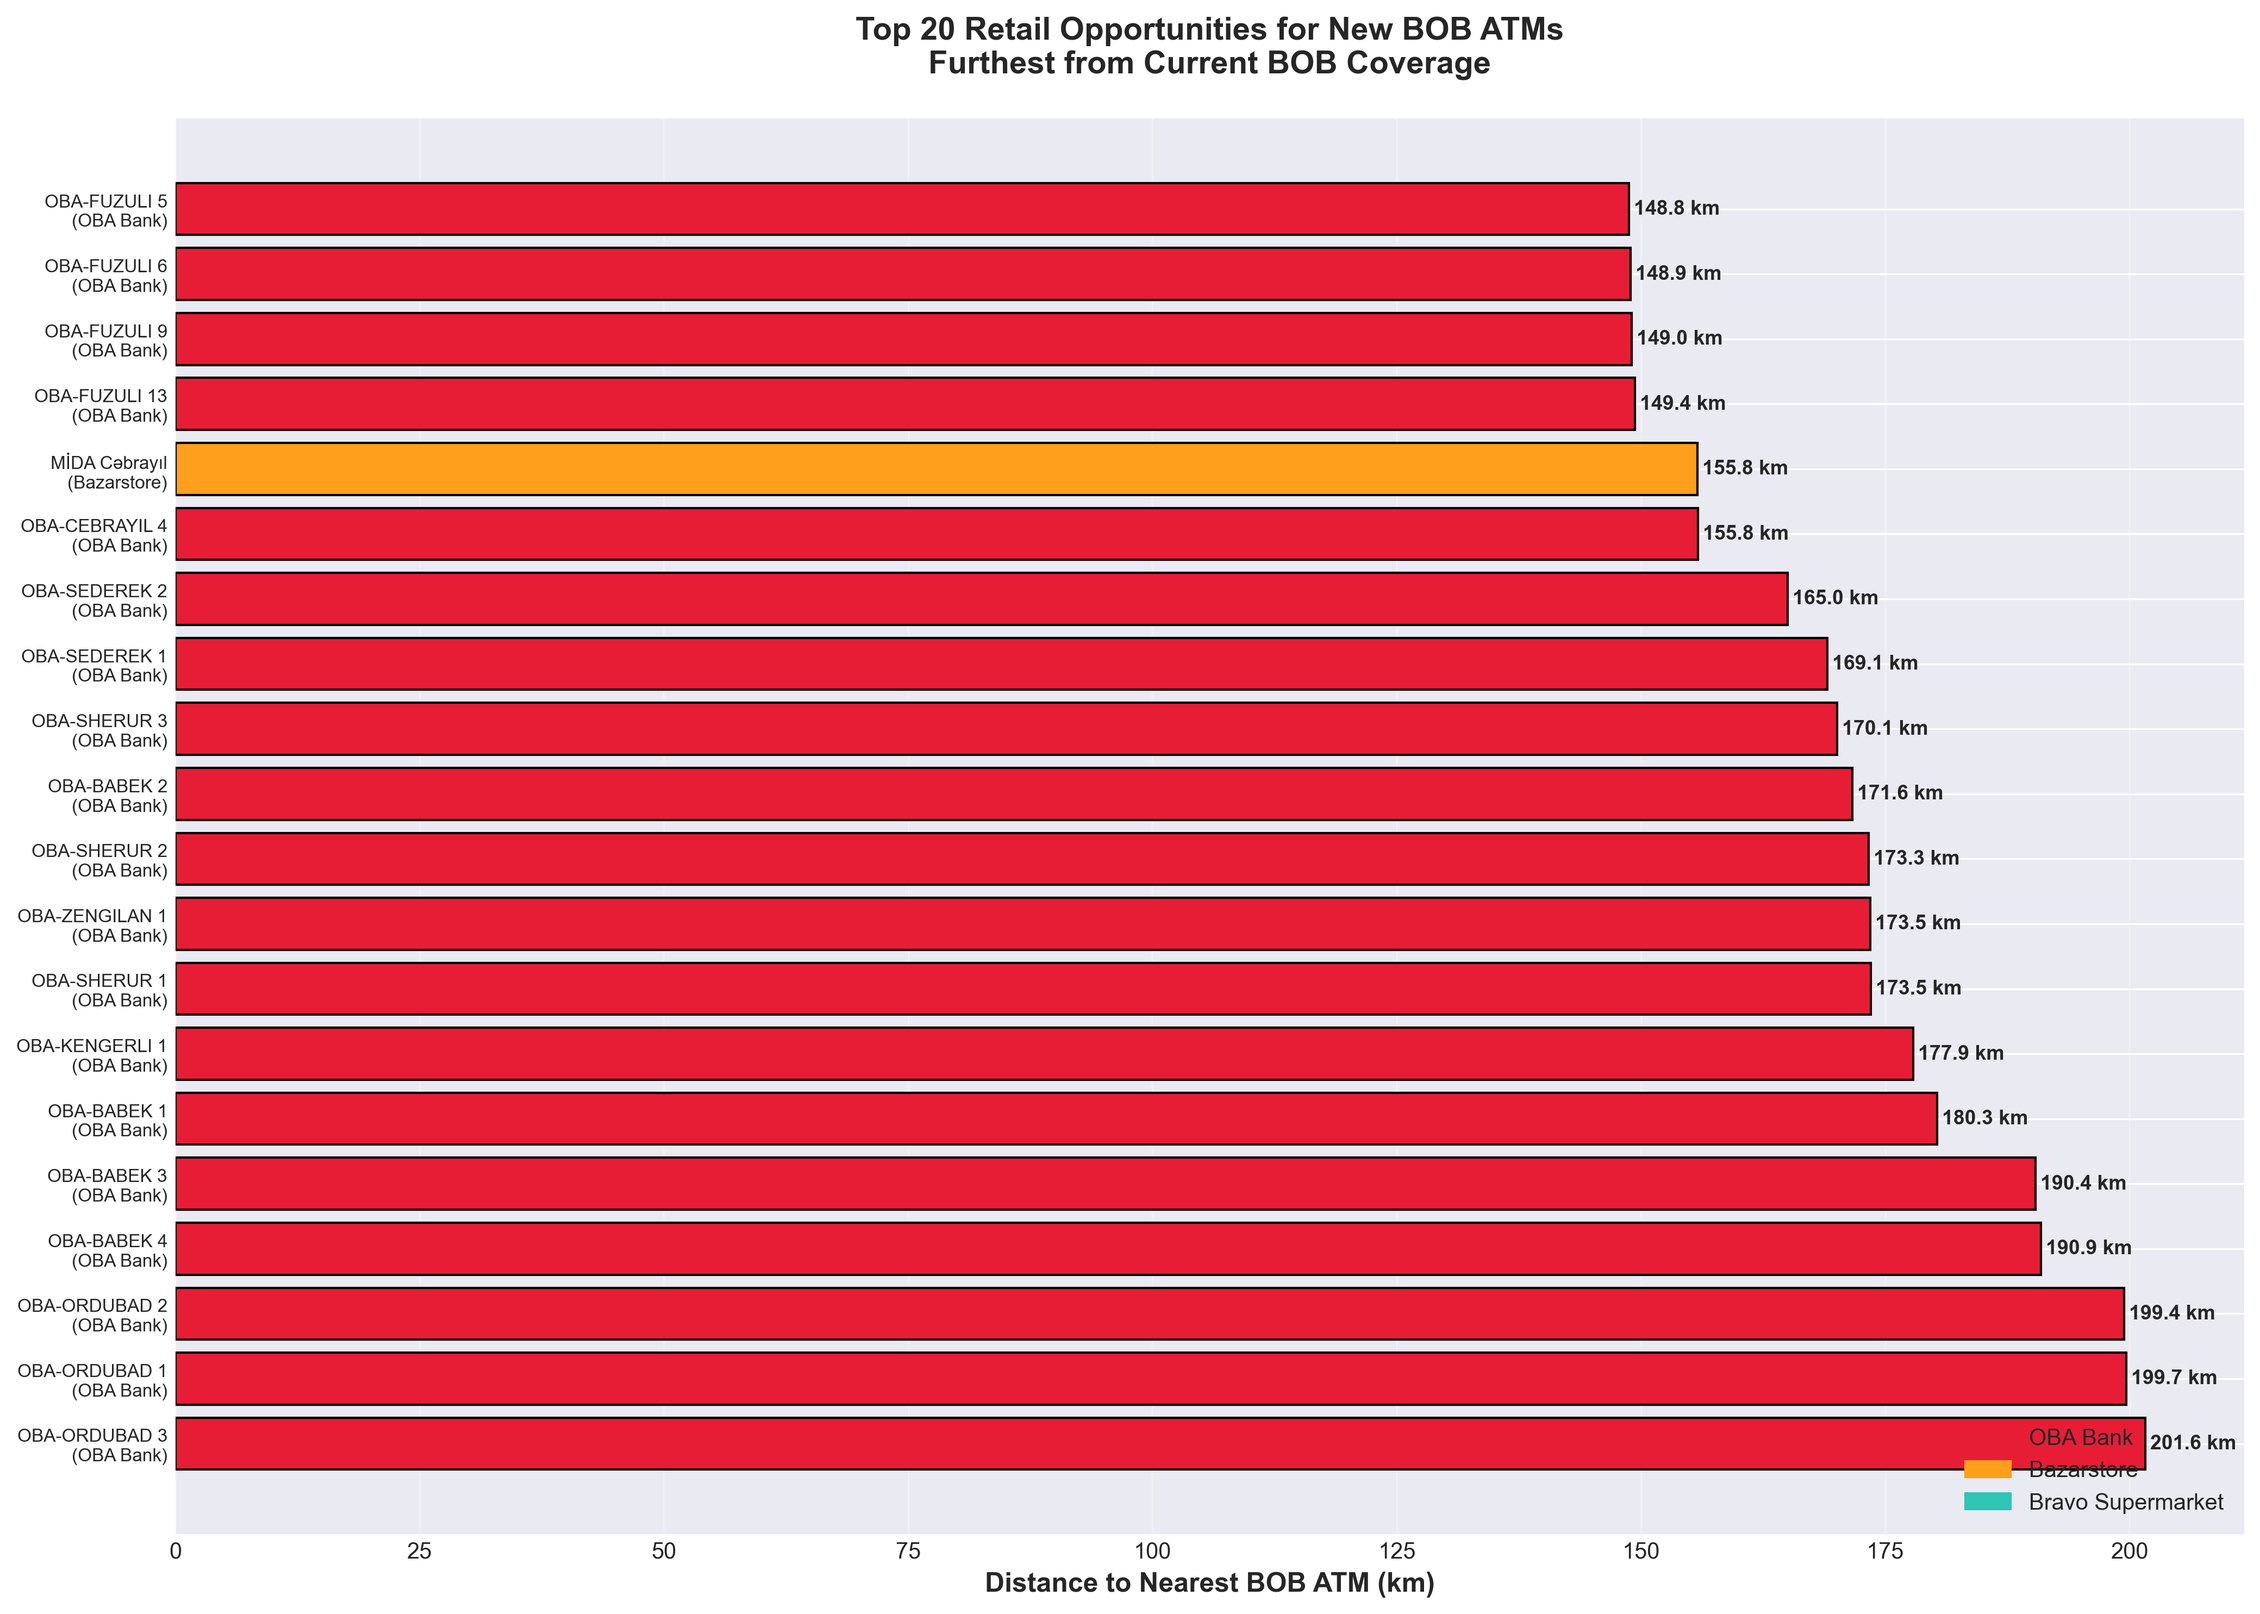
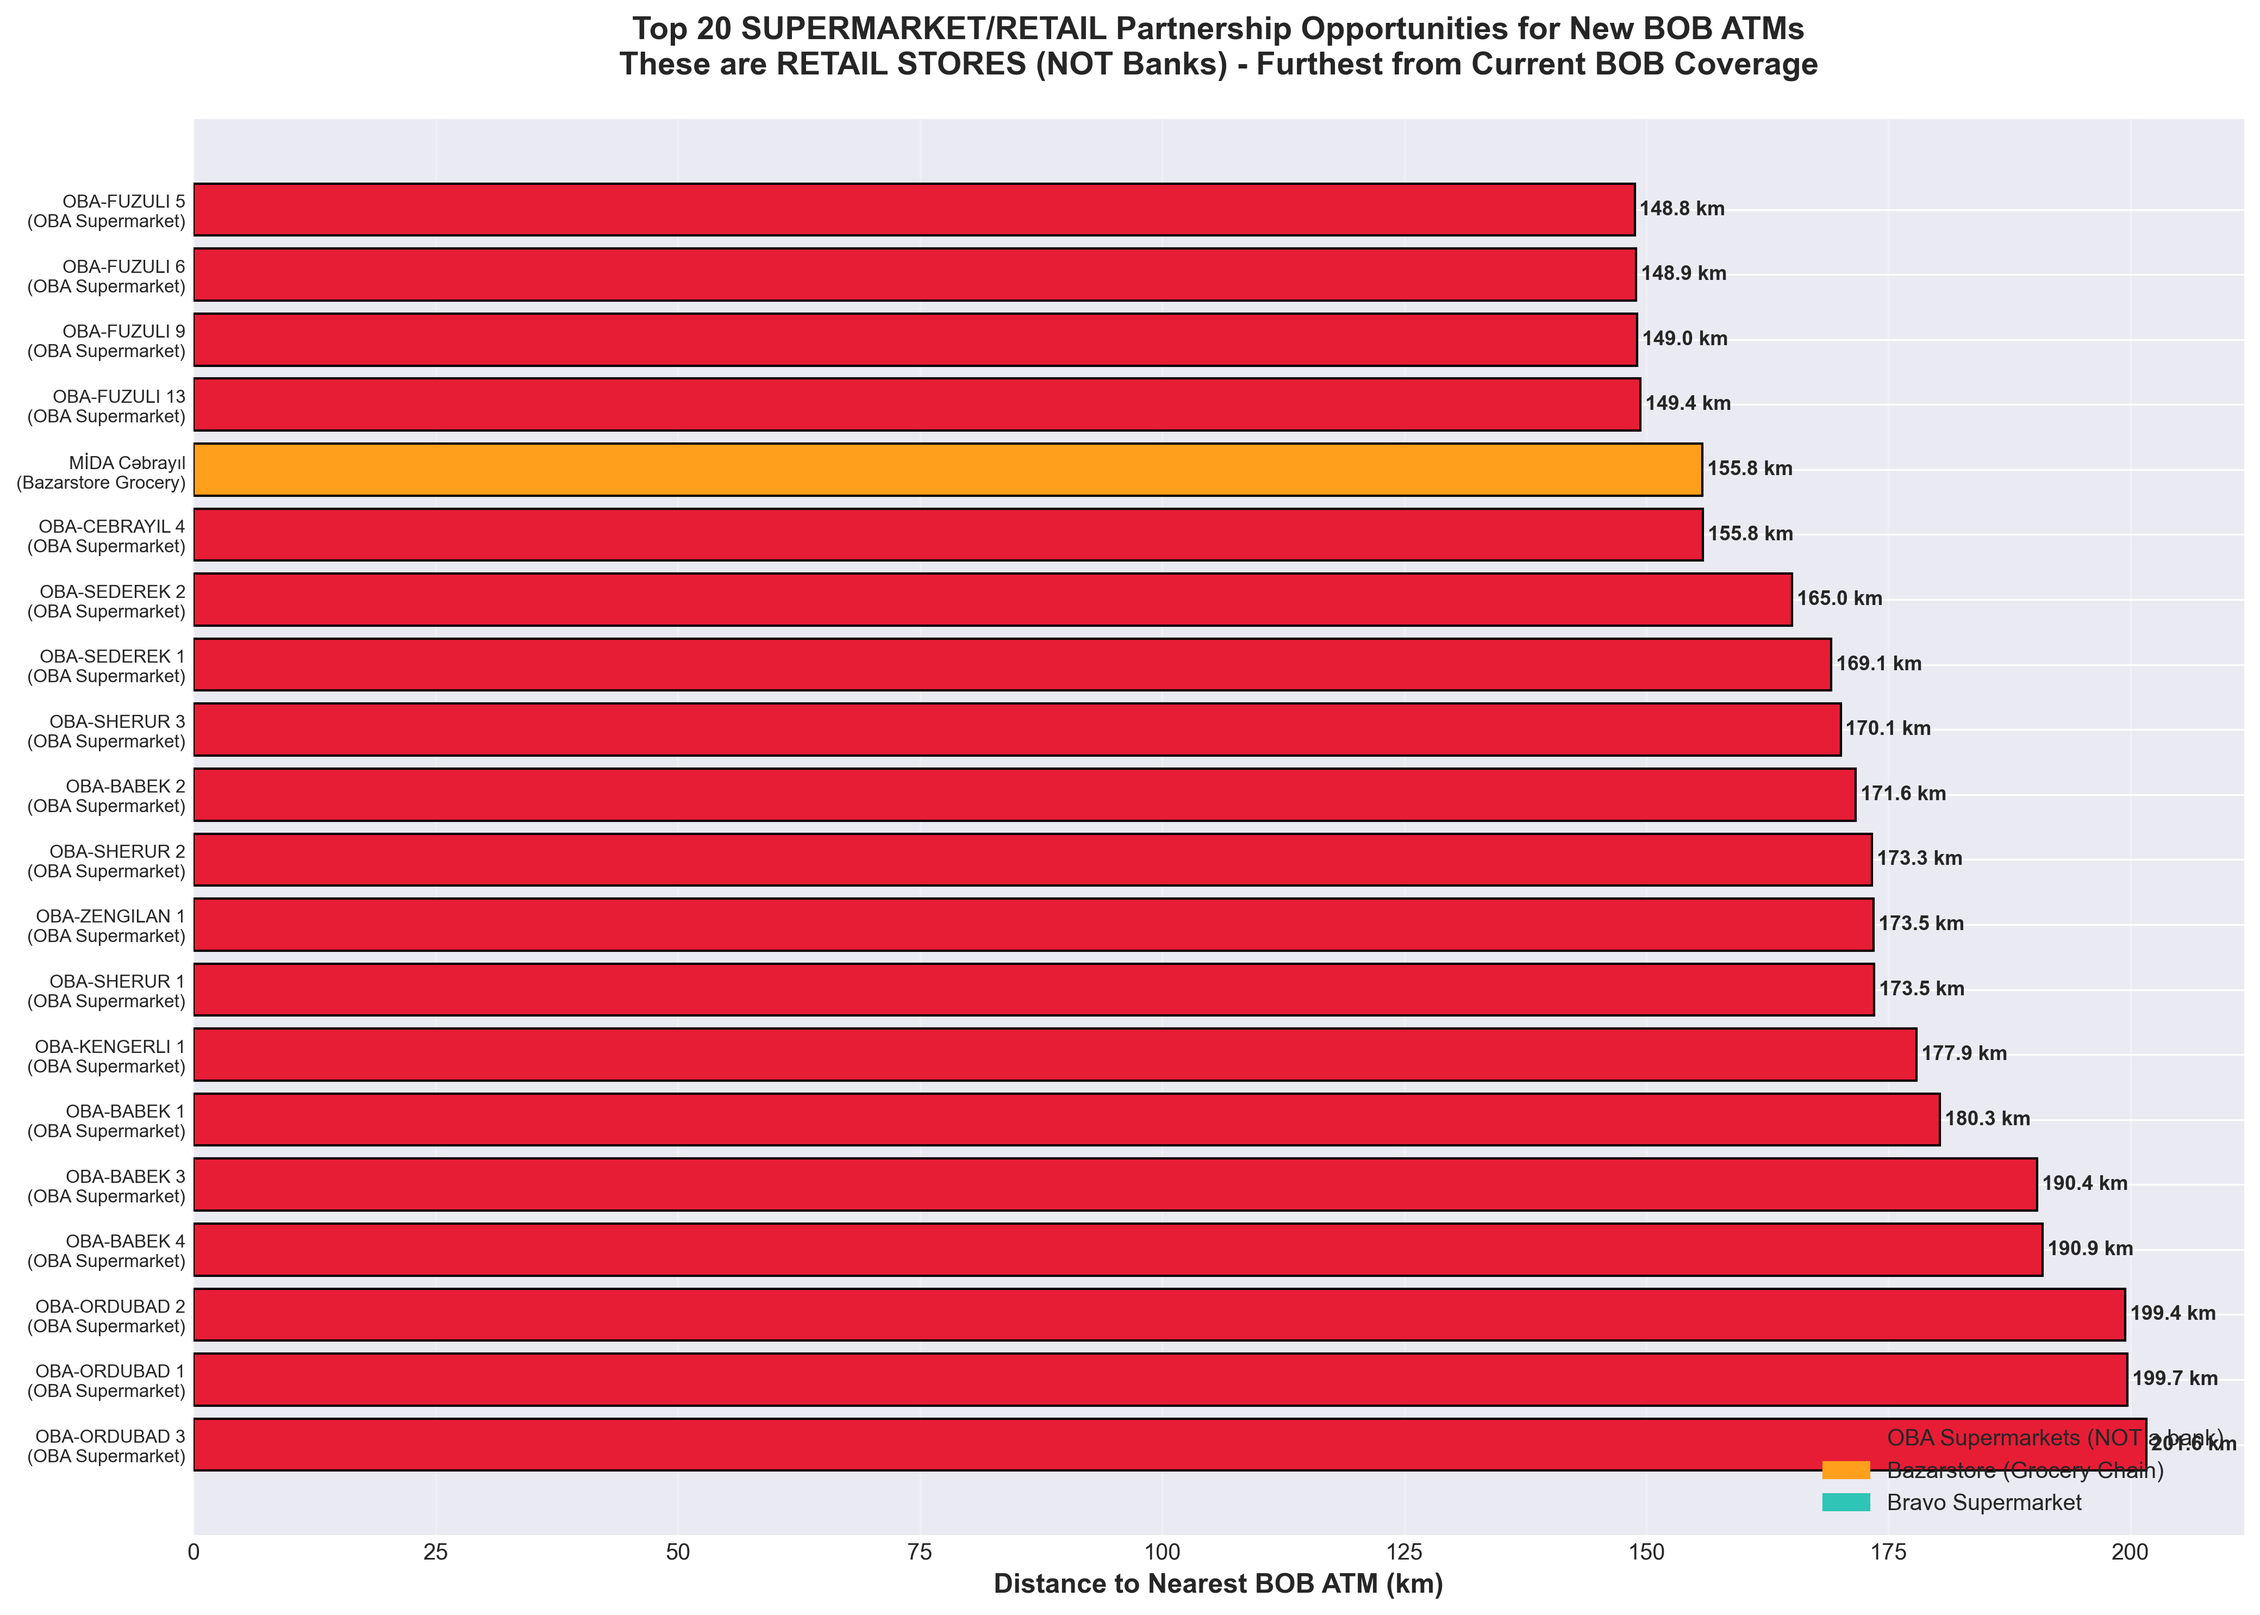
init
Source: https://github.com/GameHelix/space_invaders/commit/ad805e539ee829e90a004b172752f65668c456d6

diff --git a/earlier/GameHelix/space_invaders/scripts/analyze_for_bob.py b/earlier/GameHelix/space_invaders/scripts/analyze_for_bob.py
@@ -231,13 +231,20 @@ def chart4_retail_opportunity_map(data: List[Dict]) -> None:
         'OBA Bank': '#E71D36'
     }
 
+    # Label mapping to clarify these are SUPERMARKETS, not banks
+    label_map = {
+        'Bazarstore': 'Bazarstore (Grocery Chain)',
+        'Bravo Supermarket': 'Bravo Supermarket',
+        'OBA Bank': 'OBA Supermarkets (NOT a bank)'
+    }
+
     for source, color in colors_map.items():
         locs = [loc for loc in retail if loc['source'] == source]
         if locs:
             lats = [safe_float(loc['latitude']) for loc in locs]
             lons = [safe_float(loc['longitude']) for loc in locs]
             ax.scatter(lons, lats, c=color, s=50, alpha=0.6,
-                      label=f'{source} ({len(locs)})', edgecolors='black', linewidths=0.5)
+                      label=f'{label_map[source]} ({len(locs)})', edgecolors='black', linewidths=0.5)
 
     # Plot BOB ATMs
     if bob_atms:
@@ -249,7 +256,7 @@ def chart4_retail_opportunity_map(data: List[Dict]) -> None:
 
     ax.set_xlabel('Longitude', fontsize=12, fontweight='bold')
     ax.set_ylabel('Latitude', fontsize=12, fontweight='bold')
-    ax.set_title('Retail & Supermarket Locations: High Foot Traffic Opportunities\nBlue Stars = BOB ATMs | Colored Dots = Retail Locations',
+    ax.set_title('SUPERMARKET & RETAIL CHAIN Locations: High Foot Traffic Opportunities\nBlue Stars = BOB ATMs | Colored Dots = SUPERMARKET/RETAIL STORES (NOT Banks)',
                  fontsize=14, fontweight='bold', pad=20)
     ax.legend(loc='upper right', fontsize=10, framealpha=0.9)
     ax.grid(True, alpha=0.3)
@@ -461,7 +468,14 @@ def chart7_nearest_retail_opportunities(data: List[Dict]) -> None:
 
     fig, ax = plt.subplots(figsize=(14, 10))
 
-    names = [f"{o['name']}\n({o['source']})" for o in top_opportunities]
+    # Create clear labels showing these are SUPERMARKETS, not banks
+    label_map = {
+        'OBA Bank': 'OBA Supermarket',
+        'Bravo Supermarket': 'Bravo Supermarket',
+        'Bazarstore': 'Bazarstore Grocery'
+    }
+
+    names = [f"{o['name']}\n({label_map.get(o['source'], o['source'])})" for o in top_opportunities]
     distances = [o['distance'] for o in top_opportunities]
 
     colors = ['#E71D36' if 'OBA' in o['source'] else
@@ -479,14 +493,14 @@ def chart7_nearest_retail_opportunities(data: List[Dict]) -> None:
                f'{dist:.1f} km', ha='left', va='center', fontweight='bold', fontsize=9)
 
     ax.set_xlabel('Distance to Nearest BOB ATM (km)', fontsize=12, fontweight='bold')
-    ax.set_title('Top 20 Retail Opportunities for New BOB ATMs\nFurthest from Current BOB Coverage',
+    ax.set_title('Top 20 SUPERMARKET/RETAIL Partnership Opportunities for New BOB ATMs\nThese are RETAIL STORES (NOT Banks) - Furthest from Current BOB Coverage',
                 fontsize=14, fontweight='bold', pad=20)
     ax.grid(axis='x', alpha=0.3)
 
-    # Add legend
+    # Add legend with clear supermarket labels
     patches = [
-        mpatches.Patch(color='#E71D36', label='OBA Bank'),
-        mpatches.Patch(color='#FF9F1C', label='Bazarstore'),
+        mpatches.Patch(color='#E71D36', label='OBA Supermarkets (NOT a bank)'),
+        mpatches.Patch(color='#FF9F1C', label='Bazarstore (Grocery Chain)'),
         mpatches.Patch(color='#2EC4B6', label='Bravo Supermarket')
     ]
     ax.legend(handles=patches, loc='lower right', fontsize=10)
